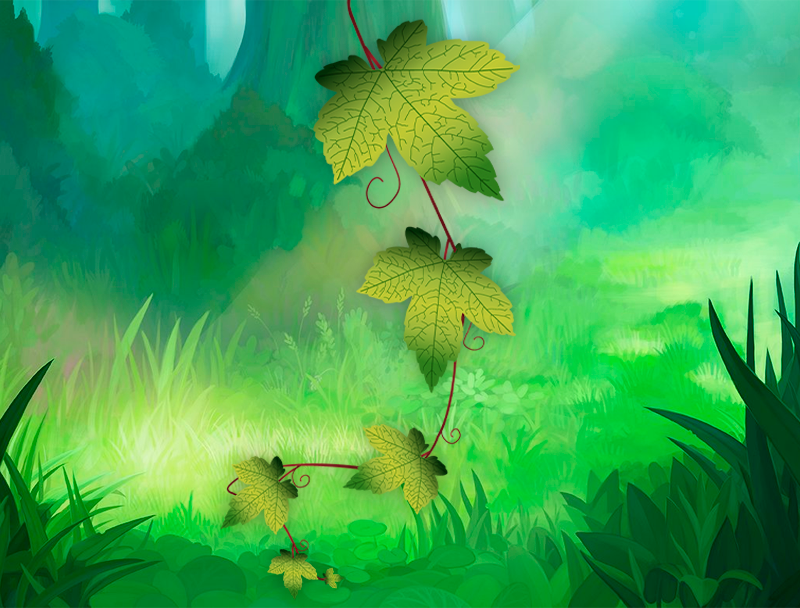
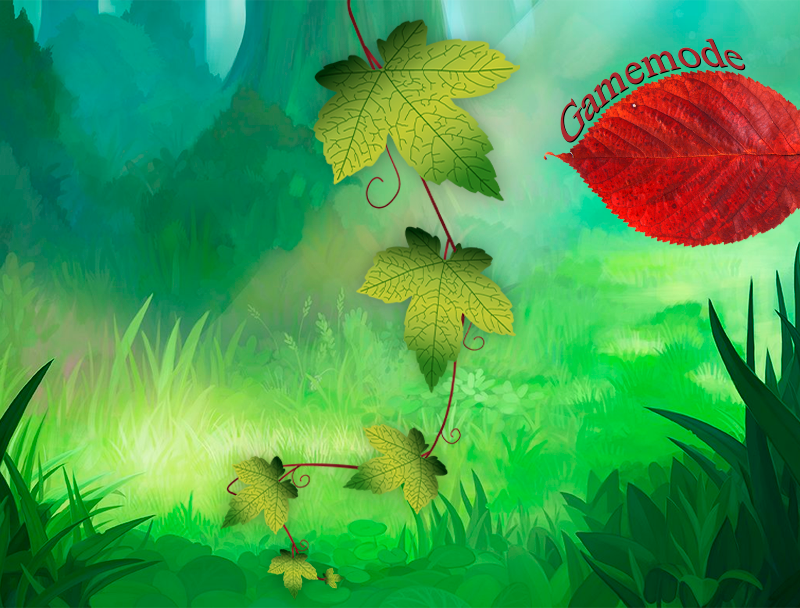
+ Режим со стенами с обновлённым меню

Changed region(s): [[0.6875, 0.0625, 1.0, 0.4062]]

diff --git a/menu.h b/menu.h
@@ -8,30 +8,51 @@
 using namespace sf;
 
 void menu(RenderWindow &window, std::vector<int> &vect) {
-    Texture menuTexture1, menuTexture2, menuTexture3, menuBackground, lbBackground;
+    bool isMenu = true;
+    int menuNum;
+    bool isWallsMode;
+    std::ifstream fileMode("wallsMode.txt");
+    fileMode >> isWallsMode;
+
+    Texture menuTexture1, menuTexture2, menuTexture3, modeClassic, modeWalls,
+            modeClassicChoosed, modeWallsChoosed, menuBackground, lbBackground;
     menuTexture1.loadFromFile("images/menu/menuStart.png");
     menuTexture2.loadFromFile("images/menu/menuLeaders.png");
     menuTexture3.loadFromFile("images/menu/menuExit.png");
+    modeClassic.loadFromFile("images/menu/modeClassic.png");
+    modeWalls.loadFromFile("images/menu/modeWalls.png");
+    modeClassicChoosed.loadFromFile("images/menu/modeClassicChoosed.png");
+    modeWallsChoosed.loadFromFile("images/menu/modeWallsChoosed.png");
     menuBackground.loadFromFile("images/menu/menuWallpaper.png");
     lbBackground.loadFromFile("images/menu/leaderboard.png");
-    Sprite menu1(menuTexture1), menu2(menuTexture2), menu3(menuTexture3), menuBg(menuBackground);
-    Sprite lbBg(lbBackground);
-    bool isMenu = true;
-    int menuNum;
+    Sprite menu1(menuTexture1), menu2(menuTexture2), menu3(menuTexture3),
+            mode1(modeClassic), mode2(modeWalls), menuBg(menuBackground), lbBg(lbBackground);
+
+    if (isWallsMode) {
+        mode1.setTexture(modeClassic);
+        mode2.setTexture(modeWallsChoosed);
+    } else {
+        mode1.setTexture(modeClassicChoosed);
+        mode2.setTexture(modeWalls);
+    }
+
     menu1.setPosition(312, 19);
     menu2.setPosition(356, 225);
     menu3.setPosition(342, 424);
+    mode1.setPosition(553, 70);
+    mode2.setPosition(555, 154);
     menuBg.setPosition(0, 0);
 
     Font font;
     font.loadFromFile("Roboto-Bold.ttf");
-    Text    place1(std::to_string(vect[0]), font, 50),
+    Text place1(std::to_string(vect[0]), font, 50),
             place2(std::to_string(vect[1]), font, 50),
             place3(std::to_string(vect[2]), font, 50),
             place4(std::to_string(vect[3]), font, 50),
             place5(std::to_string(vect[4]), font, 50);
     place1.setFillColor(Color::Black);
     place2.setFillColor(Color::Black);
+    modeClassic.loadFromFile("images/menu/modeClassic.png");
     place3.setFillColor(Color::Black);
     place4.setFillColor(Color::Black);
     place5.setFillColor(Color::Black);
@@ -58,6 +79,9 @@ void menu(RenderWindow &window, std::vector<int> &vect) {
         menu1.setColor(Color::White);
         menu2.setColor(Color::White);
         menu3.setColor(Color::White);
+        mode1.setColor(Color::White);
+        mode2.setColor(Color::White);
+
         menuNum = 0;
         window.clear(Color(129, 181, 221));
         if (IntRect(312, 19, 208, 186).contains(Mouse::getPosition(window))) {
@@ -72,6 +96,15 @@ void menu(RenderWindow &window, std::vector<int> &vect) {
             menu3.setColor(Color{31, 70, 31});
             menuNum = 3;
         }
+        if (IntRect(553, 70, 247, 86).contains(Mouse::getPosition(window))) {
+            mode1.setColor(Color{31, 70, 31});
+            isWallsMode = false;
+        }
+        if (IntRect(555, 154, 245, 93).contains(Mouse::getPosition(window))) {
+            mode2.setColor(Color{31, 70, 31});
+            isWallsMode = true;
+        }
+
         if (Mouse::isButtonPressed(Mouse::Left)) {
             if (menuNum == 1) isMenu = false;//если нажали первую кнопку, то выходим из меню
             if (menuNum == 2) {
@@ -89,11 +122,26 @@ void menu(RenderWindow &window, std::vector<int> &vect) {
                 window.close();
                 isMenu = false;
             }
+            if (isWallsMode) {
+                mode1.setTexture(modeClassic);
+                mode2.setTexture(modeWallsChoosed);
+                std::ofstream isss("wallsMode.txt");
+                isss << isWallsMode;
+            } else {
+                mode1.setTexture(modeClassicChoosed);
+                mode2.setTexture(modeWalls);
+                std::ofstream isss("wallsMode.txt");
+                isss << isWallsMode;
+            }
+
+
         }
         window.draw(menuBg);
         window.draw(menu1);
         window.draw(menu2);
         window.draw(menu3);
+        window.draw(mode1);
+        window.draw(mode2);
         window.display();
     }
 ////////////////////////////////////////////////////

diff --git a/main.cpp b/main.cpp
@@ -12,7 +12,7 @@ using namespace sf;
 const int N = 25, M = 19;
 const int size = 32;
 const int h = size * M;
-bool gameWithWalls = true;
+bool gameWithWalls;
 
 std::ifstream is("leaders.txt");
 std::istream_iterator<double> start(is), end;
@@ -112,6 +112,8 @@ bool startGame() {
 
     RenderWindow window(VideoMode(800, 608), "Snake Game!");
     menu(window, leaderboardResults);
+    std::ifstream fileMode("wallsMode.txt");
+    fileMode >> gameWithWalls;
 
     Texture grassTexture, snakeTexture, snakeHeadTexture, appleTexture, wallTexture;
     grassTexture.loadFromFile("images/grass.png");
